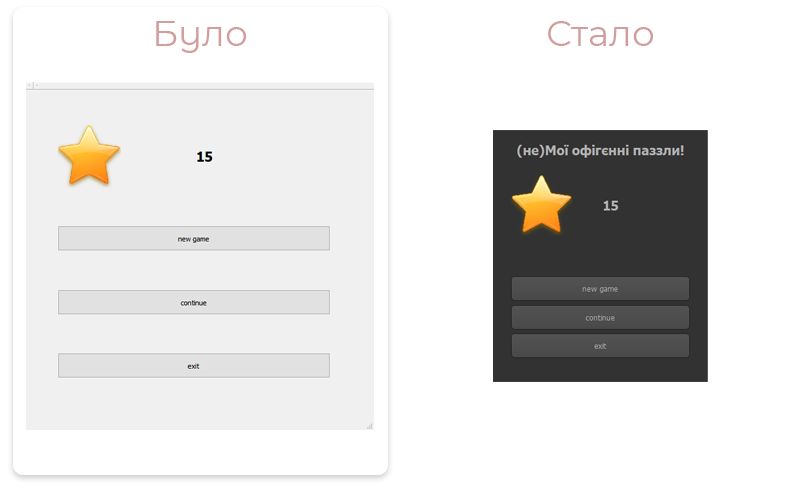
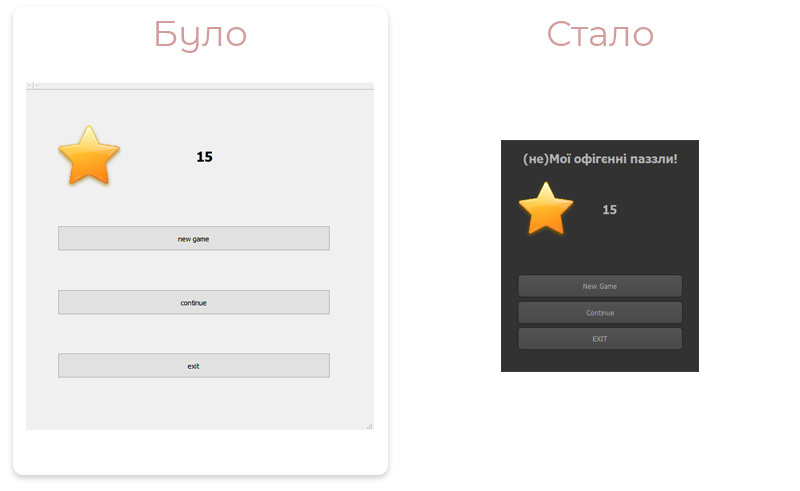
Redesign Puzzle Page

Changed region(s): [[0.5938, 0.2444, 0.9062, 0.7943], [0.75, 0.3971, 0.7812, 0.4582]]

diff --git a/Lab_2/README.md b/Lab_2/README.md
@@ -56,3 +56,7 @@ users.endGroup();
 Дизайн був залишений орігінальний.
 
 ![alt text](./images/4.png)
+
+**Екран паззлу:**
+
+![alt text](./images/5.png)
